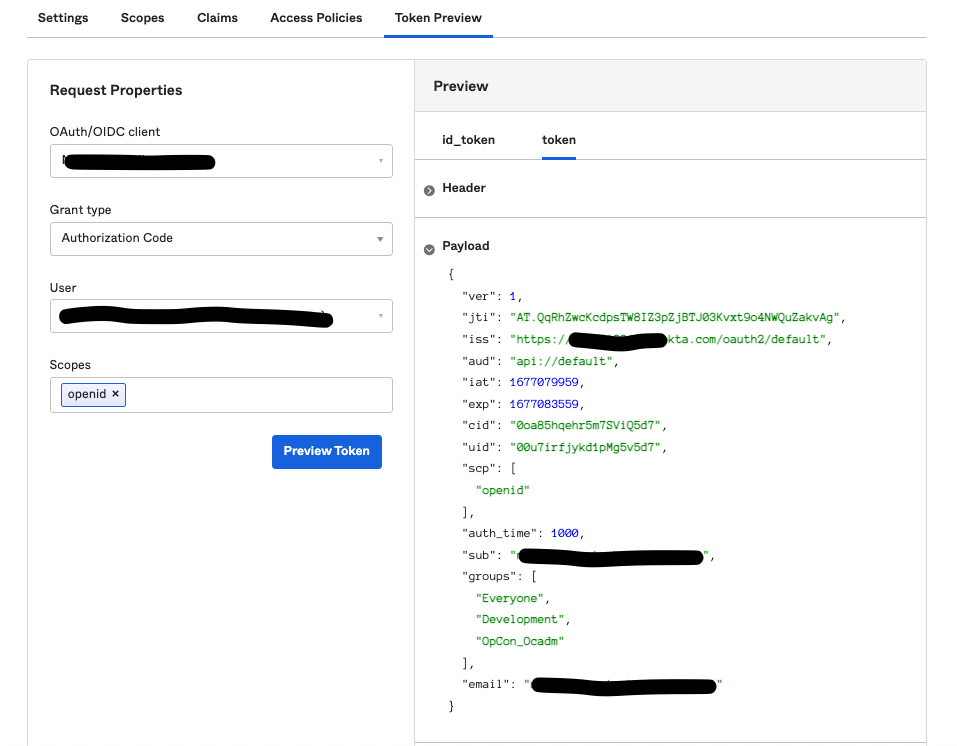
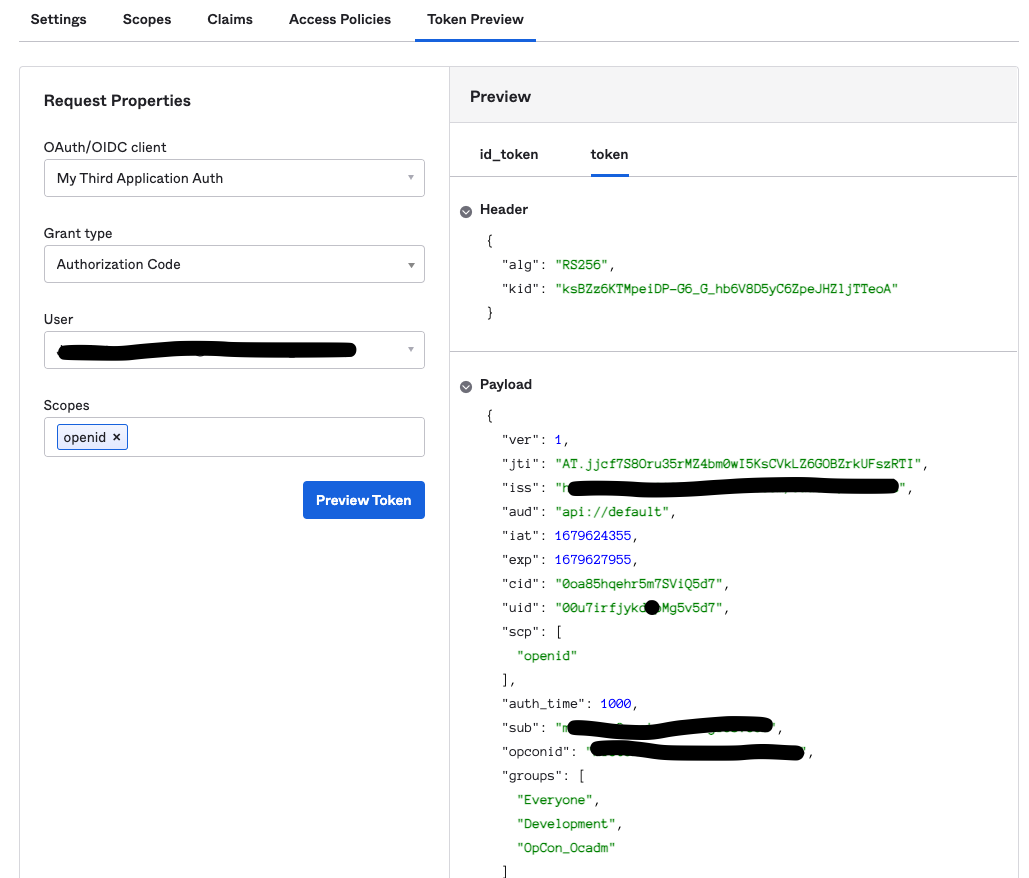
edited managing sso configuration and the logging in documentation

diff --git a/docs/Files/UI/Solution-Manager/Library/ServerOptions/Managing-SSO-Configurations.md b/docs/Files/UI/Solution-Manager/Library/ServerOptions/Managing-SSO-Configurations.md
@@ -18,7 +18,7 @@ To configure SSO Settings, go to **Library** > **Server Options** > click on the
 
 1. Click on the **Switch** to enable access to the SSO login button.
 
-1. Enter a **Provider**. The identity provider (IdP) for the client should be selected from the **Provider** dropdown. Options include **Okta**, **Azure**, and **Other**.
+1. Enter a **Provider**. The identity provider (IdP) for the client should be selected from the **Provider** dropdown. Options include **Okta**, **Azure AD**, and **Other**.
 
 1. Enter an **Authority**. **Authority** is the URL of the OIDC/OAuth2 provider.
 
@@ -26,9 +26,9 @@ To configure SSO Settings, go to **Library** > **Server Options** > click on the
 
 1. Enter a **Hostname**. The **hostname** property of the URL interface is a string containing the domain name of the URL. Make sure to include the scheme, which can be **HTTP** or **HTTPS**, and the **port number**, if applicable. For example, **https://host:80443**.
 
-1. Enter an **Audience**. The **Audience** identifies the recipients that the JWT is intended for.
+1. Enter an **Audience**. The **Audience** identifies the recipients that the JWT is intended for. This field will not be required if the provider is **Azure AD**
 
-1. Enter a **Scope**. The **Scopes** being requested from the OIDC/OAuth2 provider (default: "openid"). You can enter various scopes separated by an empty space. For example, **openid** **email**.
+1. Enter a **Scope**. The **Scopes** being requested from the OIDC/OAuth2 provider (default: **openid**). You can enter various scopes separated by an empty space.
 
 \* OpenID Connect (OIDC) is an open authentication protocol that works on top of the OAuth 2.0 (OAuth2) framework.
 
@@ -45,8 +45,9 @@ To configure SSO Settings, go to **Library** > **Server Options** > click on the
 :::note
 
 1.  If the switch is in the **On** position, the user must input values in all fields including values for **Group Mappings**.
-2.  Examples of how to gather these requirements will be posted below (for the [**Okta Application**](#okta-application) and the [**Azure Application**](#azure-application)).
-3.  SSO can be implemented with any IdP as long as the required values are provided and they follow the OpenID Connect authentication protocol.
+1.  Examples of how to gather these requirements will be posted below (for the [**Okta Application**](#okta-application) and the [**Azure AD Application**](#azure-application)).
+1.  SSO can be implemented with any IdP as long as the required values are provided and they follow the OpenID Connect authentication protocol.
+    1.  The IdP must return a token with a **groups** claim that contains the authenticated user's group memberships. It must also return an **opconid** claim, that should be composed of the authenticated user's email.
 
 :::
 
@@ -127,9 +128,9 @@ This document will describe the steps needed to create a custom application in O
        - ![Okta-Application](../../../../../Resources/Images/SM/Library/ServerOptions/okta-group-claim.png "Okta - Add Group Claim")
        1. Make sure the token type is Access Token and that you enter **`.*`** for the regex logic
        1. Make sure to name claims “**groups**”
-       1. Repeat the process to add an “**email**” claim
+       1. Repeat the process to add an “**opconid**” claim
           1. Make sure to add **appuser.email** in the **Value** text field
-       - ![Okta-Application](../../../../../Resources/Images/SM/Library/ServerOptions/okta-claim-email.png "Okta - Add Email Claim")
+       - ![Okta-Application](../../../../../Resources/Images/SM/Library/ServerOptions/okta_opconid_claim.png "Okta - Add Email Claim")
     1. Click on the “Settings” tab and take notes of the following values:
        1. **Audience**, this will be used in the SSO configuration panel inside Solution Manager
        1. Issuer, this will be used as the **Authority** value in the SSO configuration panel
@@ -139,7 +140,7 @@ This document will describe the steps needed to create a custom application in O
        1. Select **Authorization Code** for the "Grant Type"
        1. Select a user that has access to this application
        1. Type "**openid**" in the "Scopes" textbox. These scopes are required for SSO implementation in Solution Manager
-       1. Click on "Preview Token" then click on the "token" tab to view the access token. Make sure the “group” and “email” claims are displayed
+       1. Click on "Preview Token" then click on the "token" tab to view the access token. Make sure the **“groups”** and **“opconid”** claims are displayed
        - ![Okta-Application](../../../../../Resources/Images/SM/Library/ServerOptions/okta-token-preview.png "Okta - Token Preview")
 1.  Then click on the "Access Policies" tab
 
@@ -150,11 +151,11 @@ This document will describe the steps needed to create a custom application in O
 :::note
 
 - Make sure to the values of “**openid**“ in the Scope textbox inside the SSO configuration panel inside Solution Manager.
-- Make sure the **email** for the users allowed to access the application matches the username. This value will be used to pair with an existing OpCon user or it will be used to create a new user in the OpCon environment.
+- Make sure the **email** for the users allowed to access the application matches their username. This value will be used to pair with an existing OpCon user or it will be used to create a new user in the OpCon environment.
 
 :::
 
-#### Azure Application
+#### Azure AD Application
 
 This document describes the steps needed to create a custom application in Azure AD that will grant SMAOpConRestApi access to Microsoft Graph API to retrieve user information. Ensure the user following these steps has enough privileges to create an application, assign users to that application, and assign permissions to Microsoft Graph API.
 
@@ -196,8 +197,6 @@ This document describes the steps needed to create a custom application in Azure
 1. Go to “Manifest” on the left navigation menu
    1. Search for “**accessTokenAcceptedVersion**” and set the value to **2**
    - ![Azure-Application](../../../../../Resources/Images/SM/Library/ServerOptions/azure-access-token.png "Azure - Manifest Access Token Version")
-   1. Then search of the term “**resourceAppId**” and note down the value. This will be used as the **Audience** value in the SSO configuration panel in Solution Manager
-   - ![Azure-Application](../../../../../Resources/Images/SM/Library/ServerOptions/azure-audience-manifest.png "Azure - Manifest Audience Value")
 1. Restrict access to the application (optional).
    1. Go to Azure Active Directory -> Enterprise Applications > All applications and select the application you want to configure
    1. Select Properties and set "Yes" in the Assignment Required field and save the changes
@@ -209,6 +208,11 @@ This document describes the steps needed to create a custom application in Azure
 :::note
 
 - Make sure to add the “**openid**” Scope in the SSO configuration panel inside Solution Manager
+- The token retrieve from this application will be used to make calls to Microsoft Graph Api
+  - The calls include:
+    - https://graph.microsoft.com/v1.0/me : From this call, we will retrieve the property **userPrincipalName** which is the value of the authenticated user's username (email). This will be used as the opcon identifier inside Solution Manager.
+    - https://graph.microsoft.com/v1.0/me/getMemberGroups : From this call, we will be able to retrieve a list of IDs of groups that the authenticated user belongs to.
+    - https://graph.microsoft.com/v1.0/groups/{group-guid} : From this call, we will retrieve the **displayName** property which will be mapped against an existing group.
 
 :::
 

diff --git a/docs/Files/UI/Solution-Manager/Logging-In.md b/docs/Files/UI/Solution-Manager/Logging-In.md
@@ -47,7 +47,7 @@ To configure this setting:
 1. Enter **about:config** in the search field and press **Enter** on your keyboard.
 2. Click **Show All**.
 3. Enter **network.automatic-ntlm-auth.trusted-uris** in the **Search
-    preference name** search field.
+   preference name** search field.
 4. Click the **Edit** button then enter the Solution Manager URL (e.g., `https://<servername\>:<portnumber\>`) in the text field.
 5. Click **Save**.
 6. Enter **network.negotiate-auth.delegation-uris** in the **Search preference name** search field.
@@ -67,12 +67,22 @@ If the automatic logon fails, then the login screen will display so that you can
 
 The **Login with Windows** button is available to allow you to log into the application using Windows Authentication and bypass entering OpCon login credentials. When activated, your Windows credentials are sent to the server for authentication.
 
-![Solution Manager Login with Windows Buttton](../../../Resources/Images/SM/Login-with-Windows.png "Solution Manager Login with Windows Button")
+![Solution Manager Login with Windows Button](../../../Resources/Images/SM/Login-with-Windows.png "Solution Manager Login with Windows Button")
 
 In order for the button to display on the login screen, you will need to ensure that a few settings are configured.
 
 - **Enable Windows Authentication** option should be enabled in the **Server Options** editor in the Enterprise Manager. Alternatively, Windows Authentication can be enabled by the API.
 - **Windows Pass-Through Authentication** should be enabled in the [Application Settings](Configuring-Application-Settings.md) in the Solution Manager.
+
+### Single Sign On Login
+
+The **Single Sign On (SSO)** button is available to allow you to log into the application using an identity provider (IdP) to authenticate and bypass entering OpCon login credentials. When activated, the user's IdP credentials are authenticated to gain access to the Solution Manager application.
+
+![Solution Manager Login with SSO Button](../../../Resources/Images/SM/Login-with-SSO.png "Solution Manager Login with SSO Button")
+
+In order for the button to display on the login screen, you will need to ensure that a few settings are configured.
+
+- **Enable SSO Authentication** option alongside other values must be configured in the [Server Options](../Solution-Manager/Library/ServerOptions/Managing-SSO-Configurations.md) page inside Solution Manager.
 
 ### Session Expiration
 
